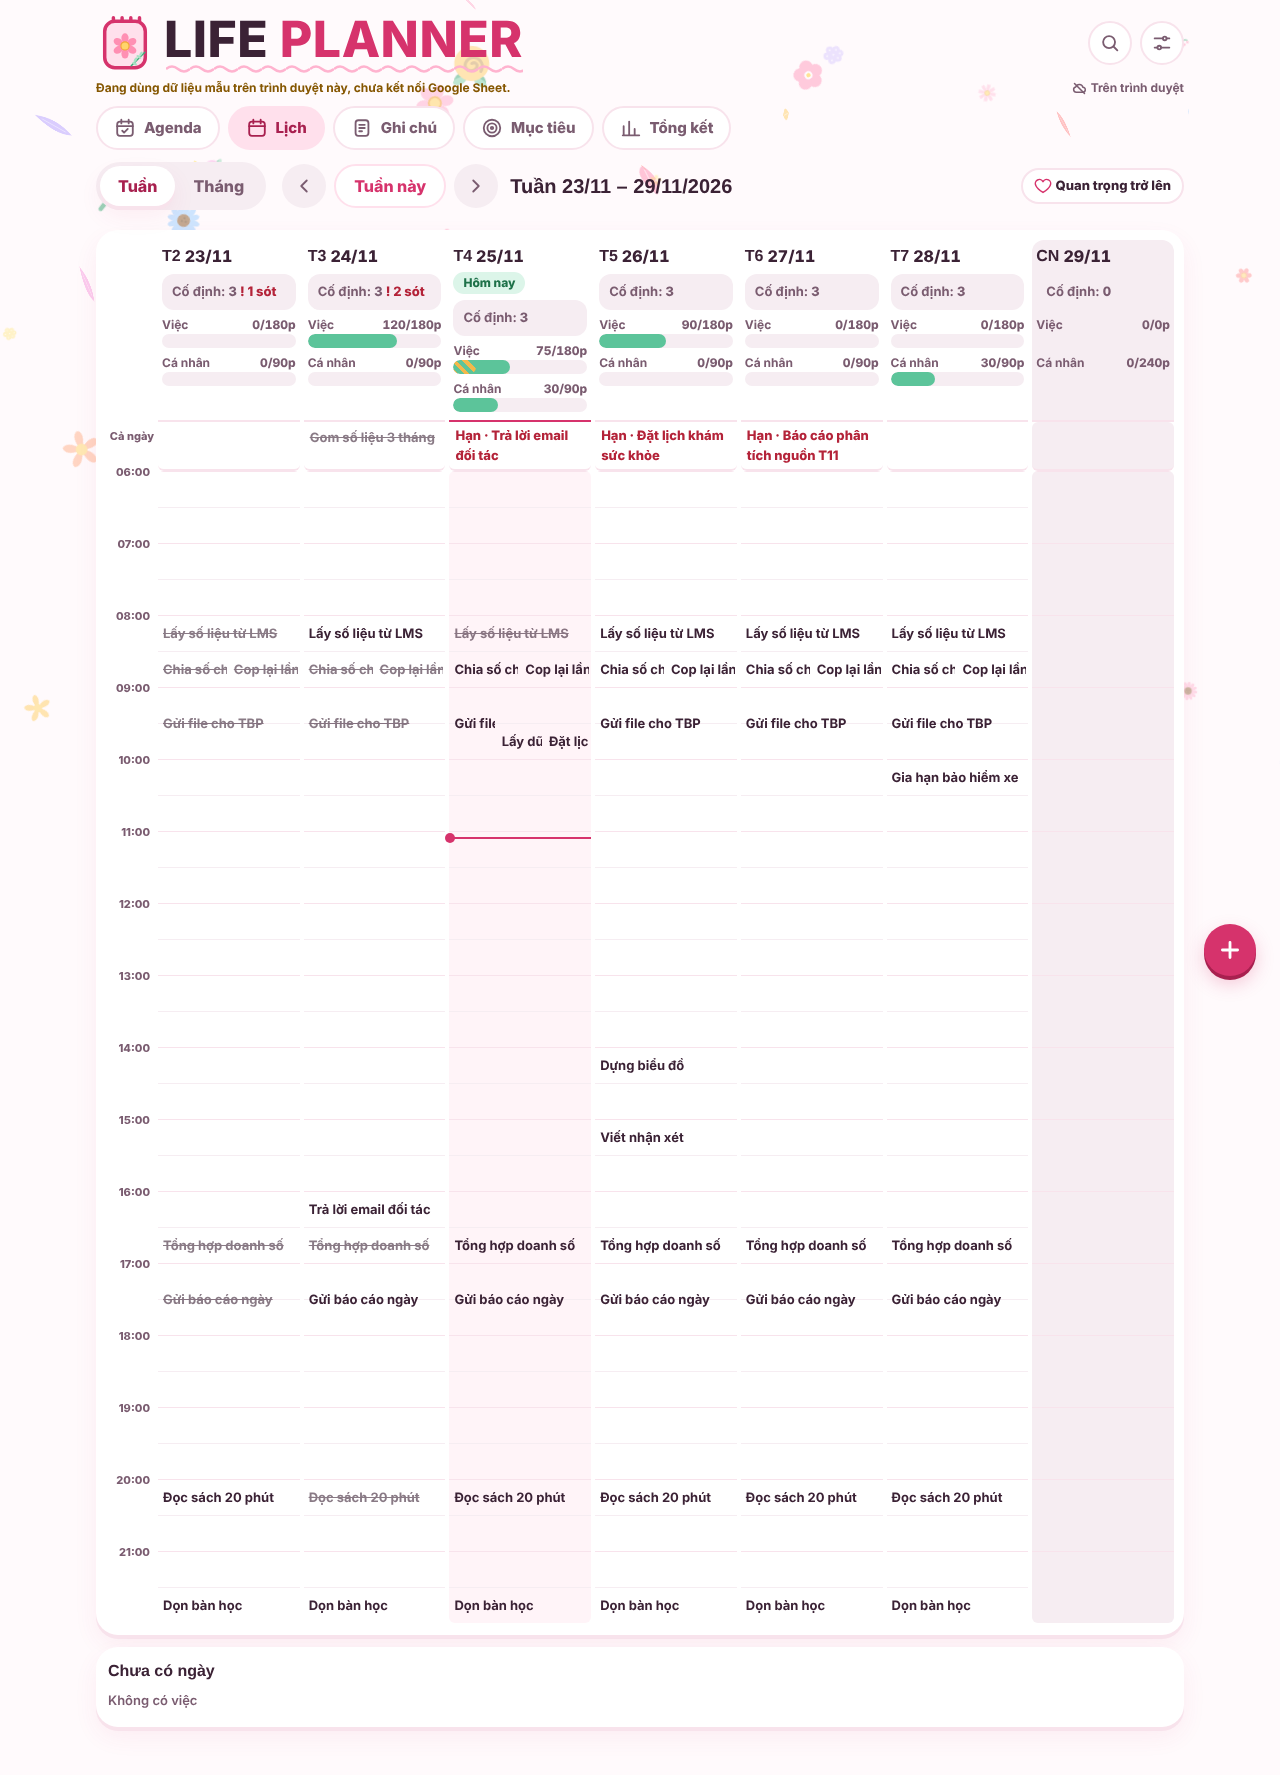
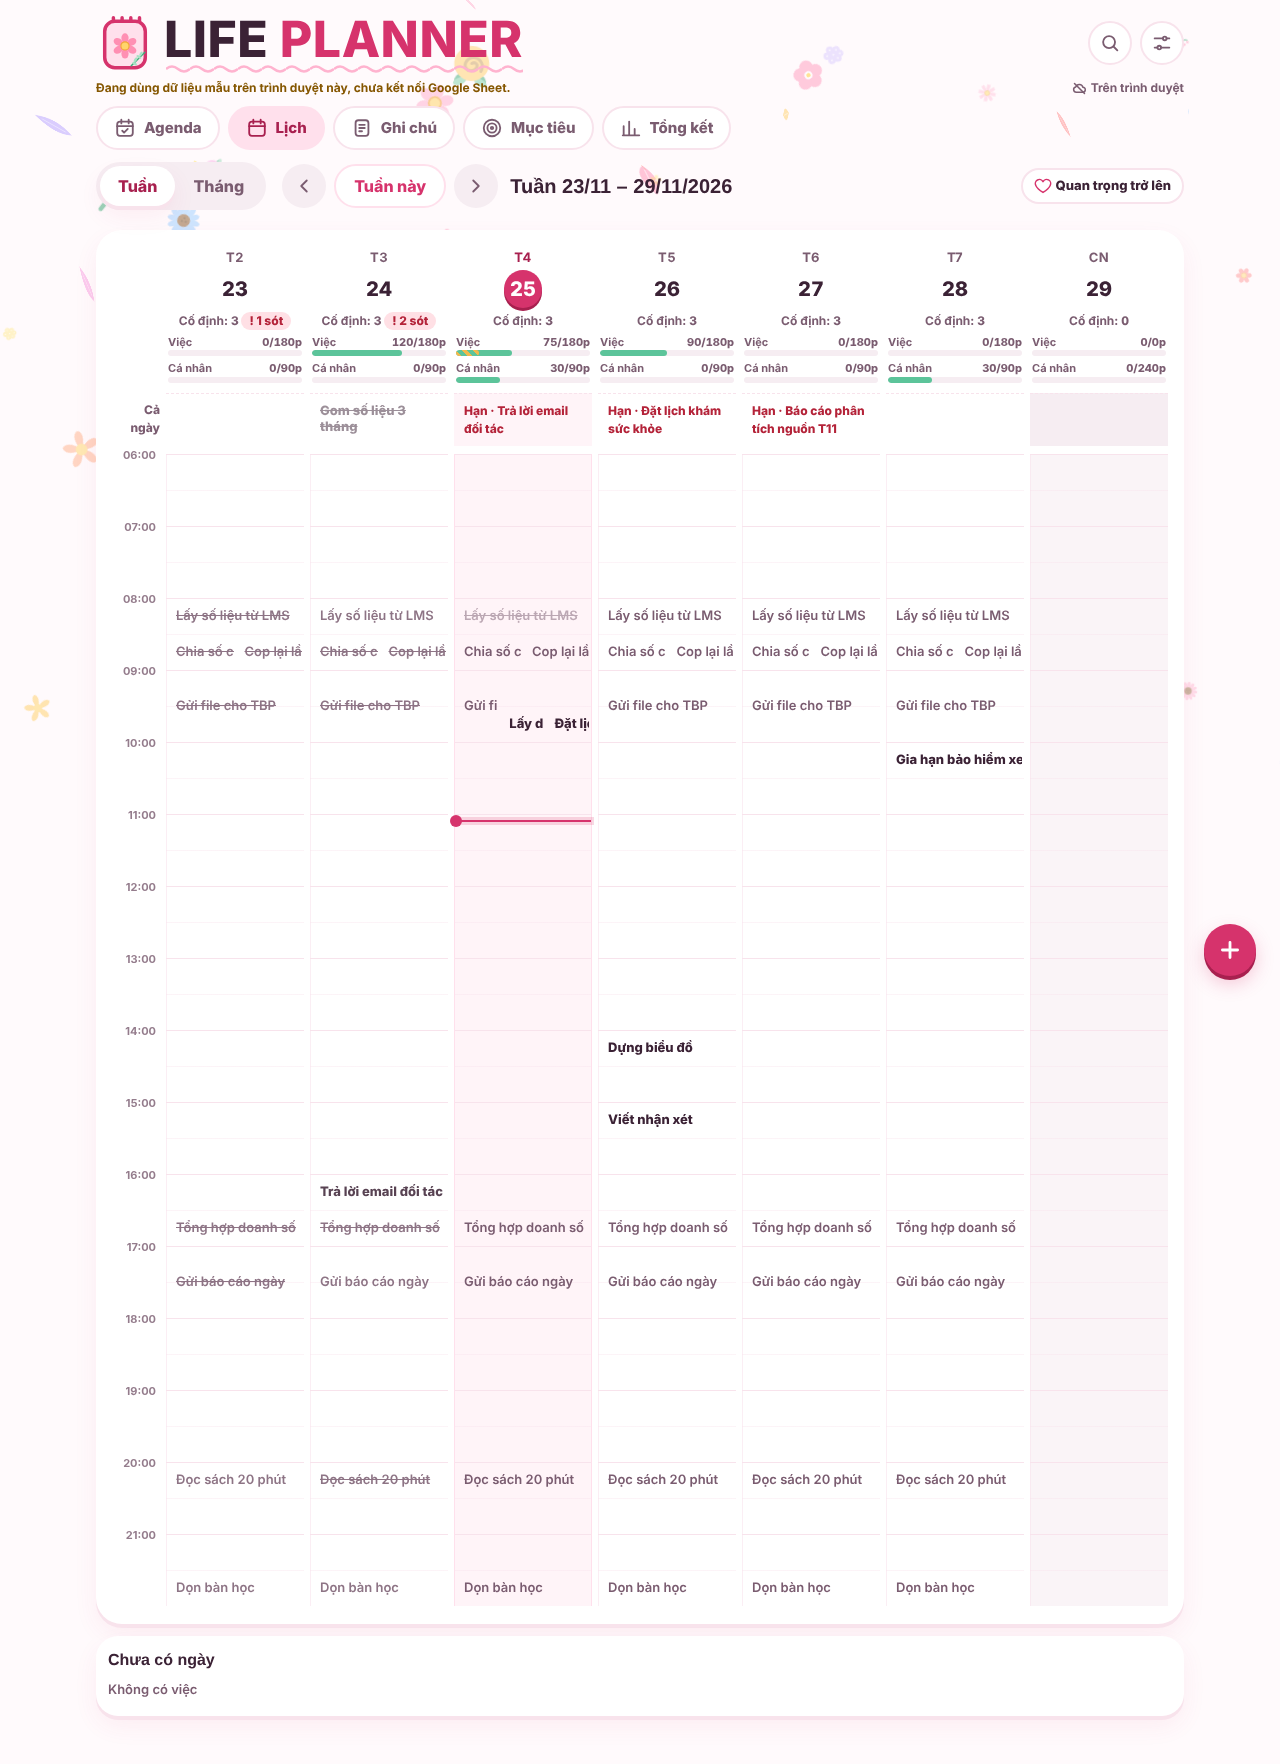
V2 phần 2: làm lại giao diện Lịch tuần cho thoáng và dễ đọc
Claude-Session: https://claude.ai/code/session_0149sgxvQkzZWaA52nFUEmMD

diff --git a/src/v2/css/lich.css b/src/v2/css/lich.css
@@ -124,3 +124,34 @@
   .mcount,.mbar span{display:none}
   .mbar{height:6px}
 }
+
+/* Lịch tuần: làm lại cho thoáng và dễ đọc (chỉ chữ trong lưới, phần đầu cột gọn hơn) */
+.lgrid{--gl:var(--line);border-radius:26px;padding:16px 16px 18px;column-gap:6px}
+.lhead{align-items:center;text-align:center;gap:4px;padding:2px 2px 10px;border-bottom:0}
+.lhead.is-off{background:transparent}
+.lgrid .lday-head{flex-direction:column;gap:2px}
+.lgrid .lday-dow{font-family:var(--display);font-size:13px;font-weight:700;letter-spacing:.04em;text-transform:uppercase;color:var(--muted)}
+.lday-num{display:grid;place-items:center;min-width:38px;height:38px;padding:0 6px;border-radius:99px;font-family:var(--display);font-size:20px;font-weight:800}
+.lhead.is-today .lday-dow{color:var(--accent-deep)}
+.lhead.is-today .lday-num{background:var(--accent);color:var(--accent-ink);box-shadow:0 3px 0 var(--accent-deep)}
+.lgrid .lday-fixed{background:transparent;min-height:0;padding:0;text-align:center;font-size:12px;border-radius:0}
+.lgrid .lday-fixed .miss{display:inline-block;padding:0 8px;border-radius:99px;background:var(--q1-bg)}
+.lgrid .qbar{width:100%}
+.lgrid .qbar-track{height:6px;border-radius:3px}
+.lgrid .qbar-track>i{border-radius:3px}
+.lgrid .qbar-top{font-size:11px}
+.lg-ad-label{align-self:center;padding:0;font-family:var(--display);font-size:12px}
+.lallday{border-bottom:0;border-top:1px dashed var(--gl);padding:8px 2px;min-height:44px;border-radius:0}
+.lallday.is-today{background:color-mix(in srgb,var(--accent-soft) 35%,transparent)}
+.lgut{margin-top:8px}
+.lgut span{font-size:11px;font-weight:700;opacity:.8}
+.lcol{margin-top:8px;border-radius:0;background-image:linear-gradient(to bottom,var(--gl) 1px,transparent 1px),linear-gradient(to bottom,color-mix(in srgb,var(--gl) 40%,transparent) 1px,transparent 1px);border-left:1px solid color-mix(in srgb,var(--gl) 60%,transparent)}
+.lcol.is-today{border-left-color:var(--accent-soft);border-right:1px solid var(--accent-soft)}
+.lcol.is-off{background-color:color-mix(in srgb,var(--plain-bg) 60%,transparent)}
+.lcol.is-past .lblk{opacity:.85}
+.lblk{padding:0 8px;font-size:13px;font-weight:800}
+.lblk.fixed{font-weight:600;color:var(--muted)}
+.lblk.is-done{opacity:.5}
+.ldue{padding:0 8px;font-size:12px}
+.lnow{background:var(--accent);height:2px;box-shadow:0 0 0 3px color-mix(in srgb,var(--accent) 18%,transparent)}
+.lnow i{left:-5px;top:-5px;width:12px;height:12px}

diff --git a/src/v2/js/views/lich-tuan.js b/src/v2/js/views/lich-tuan.js
@@ -204,8 +204,8 @@ LP.lich = (function () {
     var today = D.today(), off = D.isDayOff(d), past = d < today;
     var runs = LP.logic.routines.runsFor(d), sum = past ? LP.logic.routines.summary(d) : null;
     return '<div class="lhead' + (d === today ? ' is-today' : '') + (off || D.dow(d) === 7 ? ' is-off' : '') + '" data-date="' + d + '">' +
-      '<div class="lday-head"><span class="lday-dow">' + D.weekdayShort(d) + '</span><b class="num">' + D.fmt(d) + '</b>' +
-      (d === today ? '<span class="pill pill-ok">Hôm nay</span>' : '') + (off ? '<span class="pill">Nghỉ</span>' : '') + '</div>' +
+      '<div class="lday-head"><span class="lday-dow">' + D.weekdayShort(d) + '</span><b class="num lday-num" title="' + D.fmtFull(d) + (d === today ? ' · hôm nay' : '') + '">' + parseInt(d.slice(8), 10) + '</b>' +
+      (off ? '<span class="pill">Nghỉ</span>' : '') + '</div>' +
       '<button type="button" class="lday-fixed" data-agenda="' + d + '">Cố định: <b class="num">' + runs.length + '</b>' +
       (past && sum.total ? (sum.missed ? ' <span class="miss">! ' + sum.missed + ' sót</span>' : ' <span class="full">' + UI.icon('check', 'ic18') + '</span>') : '') + '</button>' +
       quotaBars(LP.logic.tasks.capacity(d)) + '</div>';
